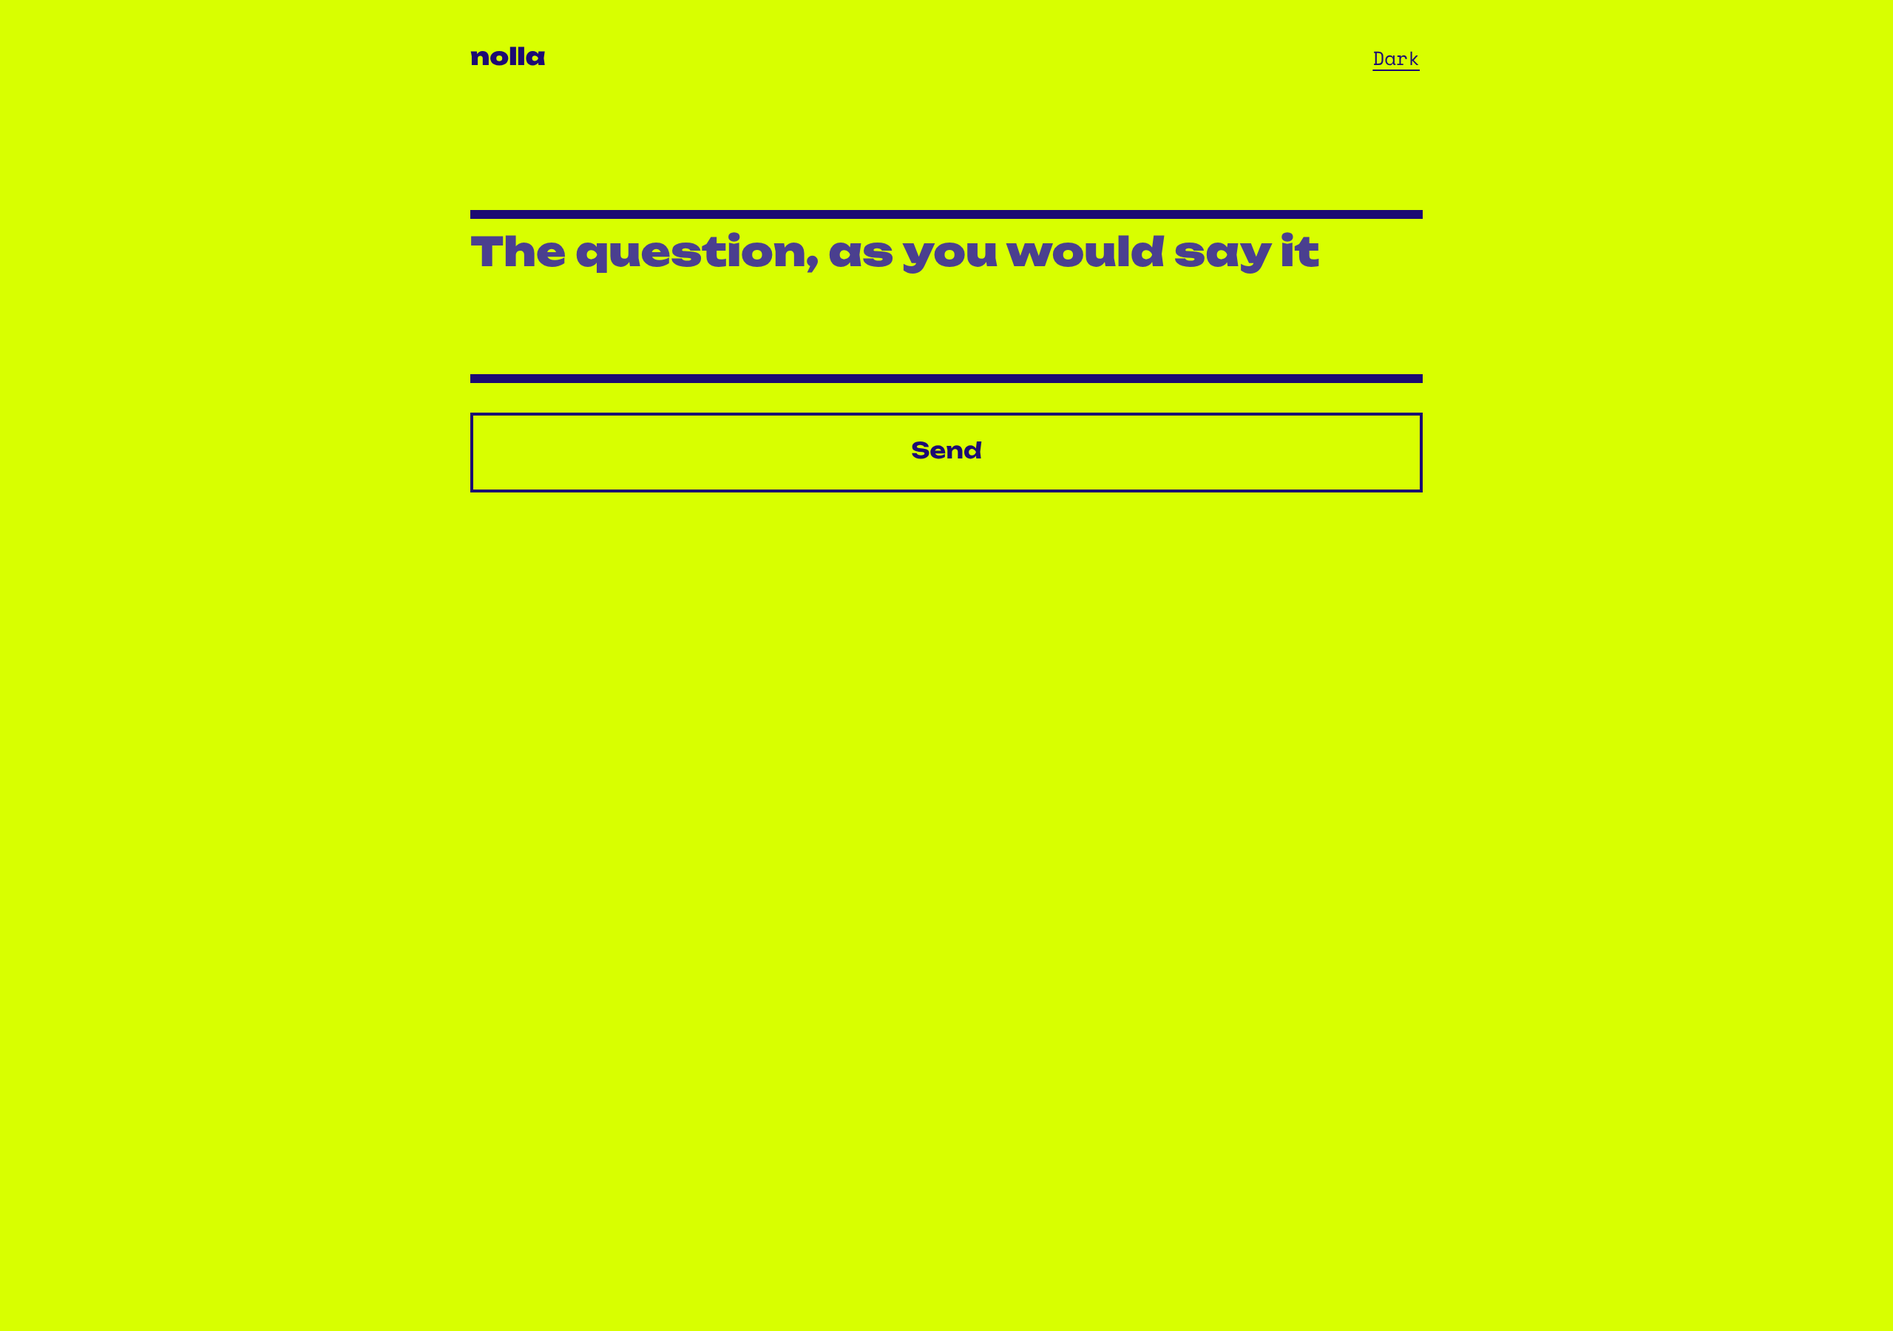
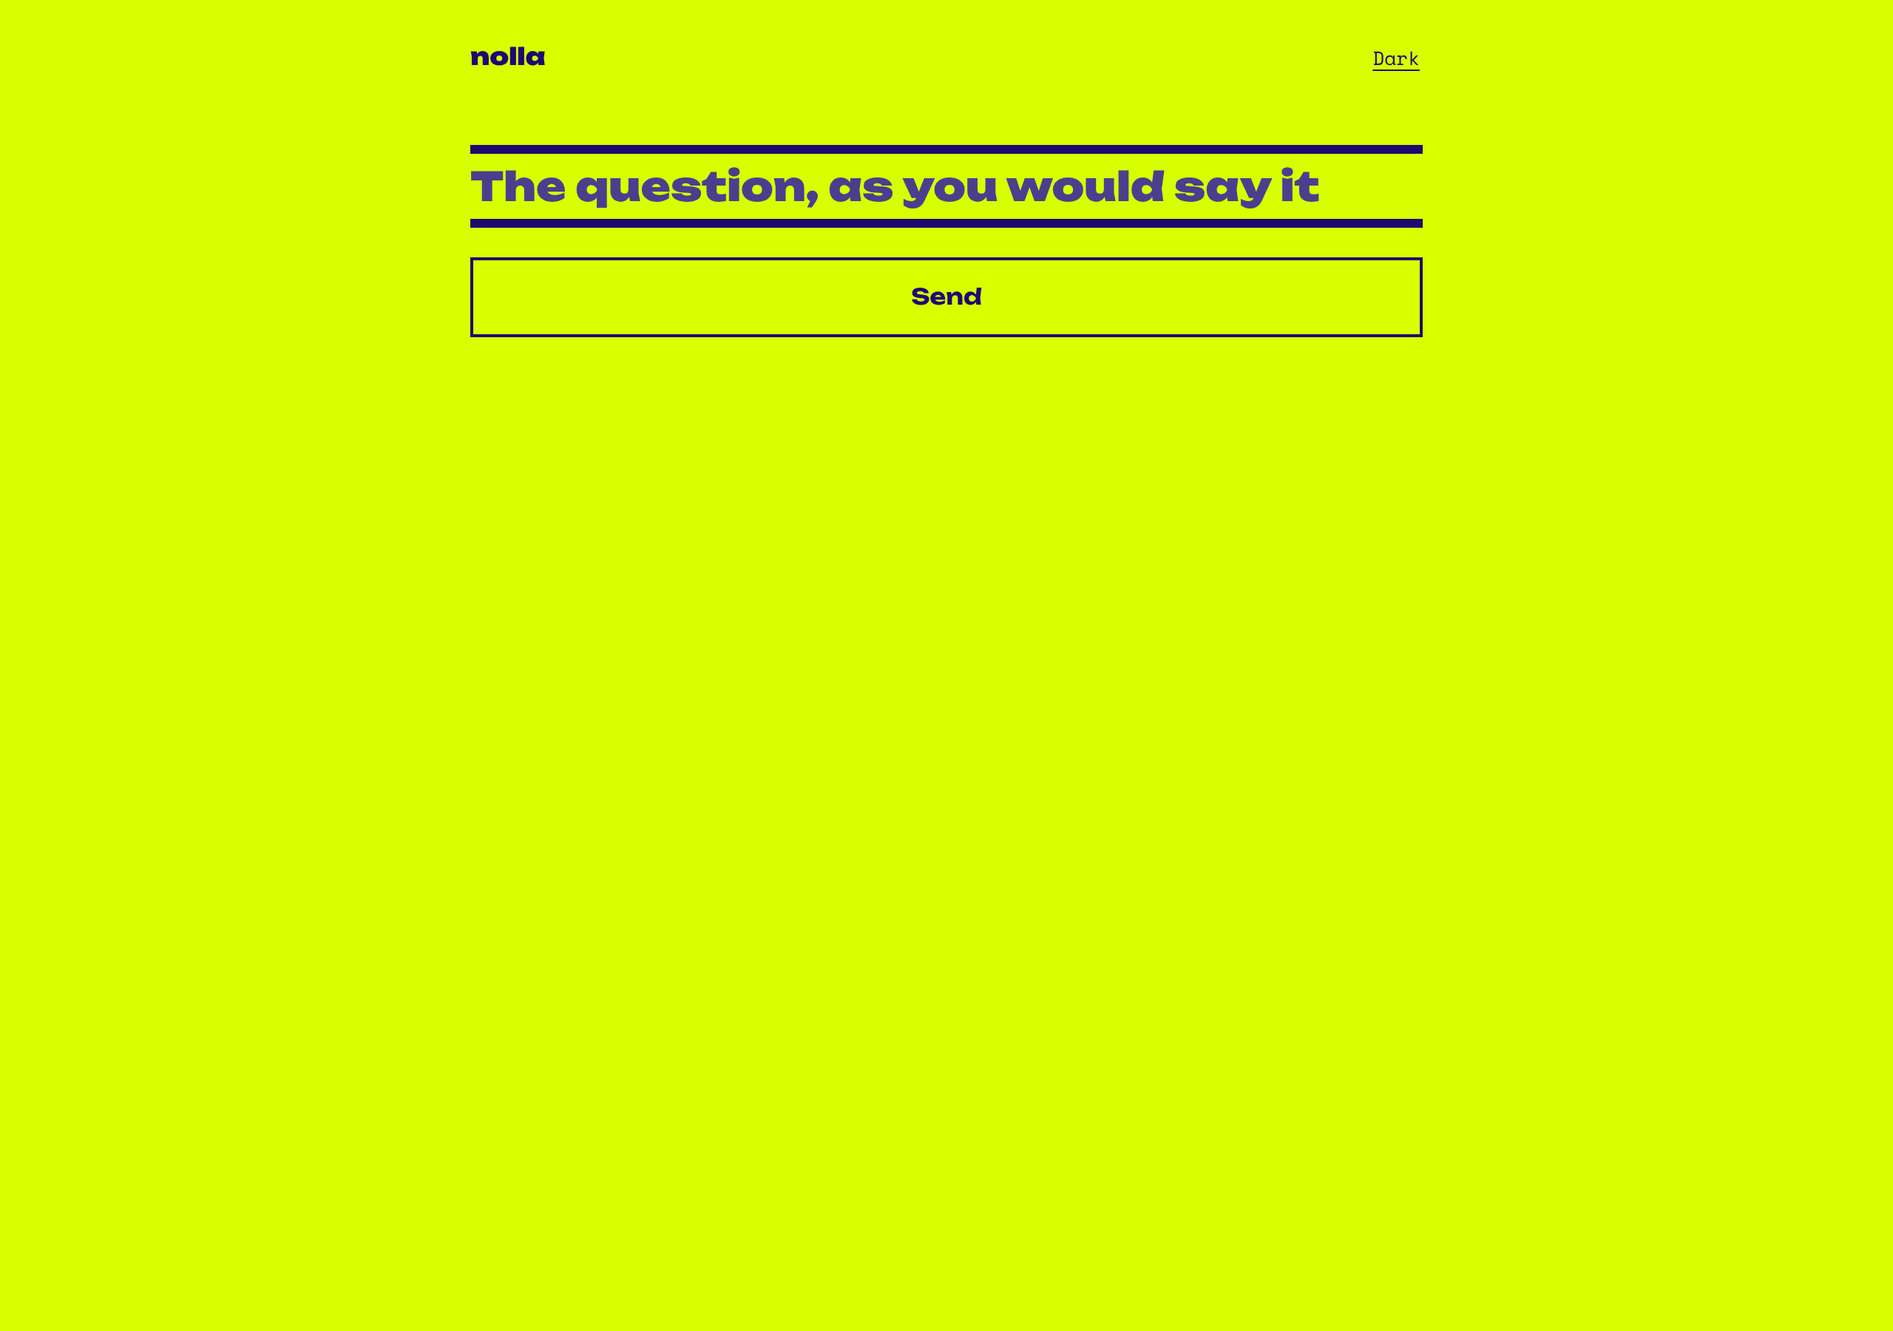
Remove eyebrow labels and repeated descriptions
On /chat, drop the model name above the conversation and the reasoning
label above each reply; the meter shows once, under the latest reply,
with a reasoning switch. The ask field loses its visible label and
grows with the question. The tour loses its label line, the counter
its weekly meter, and the manager decision its restated checks,
refund paragraph, counter limit, and closing line.

Claude-Session: https://claude.ai/code/session_01Hj949VnQJpg21efjNEvzUg

Changed region(s): [[0.25, 0.0933, 0.75, 0.2489], [0.25, 0.28, 0.75, 0.3733]]

diff --git a/src/web/styles.css b/src/web/styles.css
@@ -79,8 +79,10 @@ main { flex: 1; padding: 24px 0 40px; }
 .path li.last { font-weight: 700; border-top: 1px solid var(--ink); border-bottom: 1px solid var(--ink); }
 
 /* The call as typed, in pieces. */
-textarea { display: block; width: 100%; margin-top: 8px; padding: 10px 0; border: 0; border-top: 3px solid var(--ink); border-bottom: 3px solid var(--ink); border-radius: 0; background: transparent; color: var(--ink); font: 900 27px/1.12 var(--display); resize: vertical; }
+textarea { display: block; width: 100%; margin-top: 8px; padding: 10px 0; border: 0; border-top: 3px solid var(--ink); border-bottom: 3px solid var(--ink); border-radius: 0; background: transparent; color: var(--ink); font: 900 27px/1.12 var(--display); resize: none; }
 textarea::placeholder { color: var(--dim); }
+textarea { field-sizing: content; min-height: calc(3lh + 26px); }
+textarea:focus-visible { outline: none; border-top-width: 6px; border-bottom-width: 6px; padding: 7px 0; }
 .pieces-wrap { margin-top: 10px; }
 .pieces { display: flex; flex-wrap: wrap; gap: 4px 0; font-family: var(--mono); font-size: 13px; color: var(--dim); }
 .piece { padding: 0 6px; border-right: 1px solid var(--hair); line-height: 1.5; }
@@ -180,7 +182,7 @@ textarea::placeholder { color: var(--dim); }
 .tour button { display: grid; grid-template-columns: minmax(0, 1fr) minmax(0, 1.4fr); gap: 12px; width: 100%; min-height: 48px; text-align: left; padding: 11px 0; align-items: baseline; }
 .tour .t-name { font-weight: 700; font-size: 17px; }
 .tour .t-what { font-size: 15px; color: var(--dim); }
-.tourbar { margin-bottom: 18px; padding-bottom: 10px; border-bottom: 1px solid var(--hair); font-family: var(--mono); font-size: 13px; color: var(--dim); display: flex; justify-content: space-between; gap: 12px; }
+.tourbar { margin-bottom: 18px; padding-bottom: 10px; border-bottom: 1px solid var(--hair); font-family: var(--mono); font-size: 13px; color: var(--dim); display: flex; justify-content: flex-end; gap: 12px; }
 .tourbar button { font-family: var(--mono); font-size: 13px; text-decoration: underline; text-underline-offset: 3px; }
 
 @media (max-width: 480px) {
@@ -192,27 +194,25 @@ textarea::placeholder { color: var(--dim); }
    question sets in the display face, the reply in the body face, and the
    machine's own numbers in mono under each reply. */
 .chat { display: flex; flex-direction: column; min-height: calc(100vh - 110px); }
-.chat-top { display: flex; justify-content: space-between; align-items: baseline; min-height: 44px; }
-.chat-model { font-family: var(--mono); font-size: 13px; color: var(--dim); overflow-wrap: anywhere; }
 .chat-log { flex: 1; }
 .chat--empty .chat-log { flex: 0; }
 .chat-q { margin-top: 28px; padding-top: 18px; border-top: 3px solid var(--ink); font-family: var(--display); font-weight: 900; font-size: 24px; line-height: 1.14; overflow-wrap: anywhere; white-space: pre-wrap; }
-.chat-q:first-child { margin-top: 8px; }
+.chat-q:first-child { margin-top: 0; }
 .chat-a { margin-top: 14px; }
 .chat-reply p { margin-top: 12px; font-size: 17px; line-height: 1.55; white-space: pre-wrap; overflow-wrap: anywhere; }
 .chat-reply p:first-child { margin-top: 0; }
-.chat-reasoning { margin-bottom: 12px; font-family: var(--mono); font-size: 13px; line-height: 1.55; color: var(--dim); }
-.chat-reasoning summary { min-height: 32px; cursor: pointer; }
-.chat-reasoning p { margin-top: 6px; padding-left: 12px; border-left: 2px solid var(--hair); white-space: pre-wrap; }
-.chat-meter { display: flex; flex-wrap: wrap; justify-content: space-between; gap: 4px 16px; margin-top: 16px; padding-top: 8px; border-top: 1px solid var(--hair); font-family: var(--mono); font-size: 13px; color: var(--dim); font-variant-numeric: tabular-nums; }
+.chat-reasoning { margin-top: 10px; padding-left: 12px; border-left: 2px solid var(--hair); font-family: var(--mono); font-size: 13px; line-height: 1.55; color: var(--dim); white-space: pre-wrap; }
+.chat-toggle { min-height: 32px; font-family: var(--mono); font-size: 13px; color: var(--dim); text-decoration: underline; text-underline-offset: 3px; }
+.chat-toggle[aria-expanded="true"] { color: var(--ink); }
+.chat-meter { display: flex; flex-wrap: wrap; justify-content: space-between; align-items: baseline; gap: 4px 16px; margin-top: 16px; padding-top: 8px; border-top: 1px solid var(--hair); font-family: var(--mono); font-size: 13px; color: var(--dim); font-variant-numeric: tabular-nums; }
 
 /* The composer: pinned under the conversation, one line that grows. */
-.composer { position: sticky; bottom: 0; display: grid; grid-template-columns: minmax(0, 1fr) auto; gap: 12px; align-items: end; margin-top: 24px; padding: 12px 0 16px; border-top: 3px solid var(--ink); background: var(--ground); }
-.composer textarea { margin: 0; padding: 12px 0; border: 0; font: 500 17px/1.45 var(--sans); resize: none; }
-.composer textarea:focus-visible { outline: none; }
+.composer { position: sticky; bottom: 0; display: grid; grid-template-columns: minmax(0, 1fr) auto auto; gap: 12px; align-items: end; margin-top: 24px; padding: 12px 0 16px; border-top: 3px solid var(--ink); background: var(--ground); }
+.composer textarea, .composer textarea:focus-visible { margin: 0; min-height: 0; padding: 12px 0; border: 0; font: 500 17px/1.45 var(--sans); resize: none; outline: none; }
 .composer:focus-within { border-top-width: 6px; padding-top: 9px; }
 .send { min-height: 48px; padding: 0 20px; background: var(--fill); color: var(--fill-text); border: 2px solid var(--fill); font-family: var(--display); font-weight: 700; font-size: 15px; }
 .send:disabled { background: transparent; color: var(--ink); border-color: var(--ink); }
+.chat-clear { align-self: center; }
 
 /* Before the first message the composer is the desk's question field. */
 .chat--empty .composer, .chat--empty .composer:focus-within { position: static; grid-template-columns: minmax(0, 1fr); gap: 20px; margin-top: 12px; padding: 0; border-top: 0; }

diff --git a/src/web/Chat.tsx b/src/web/Chat.tsx
@@ -20,25 +20,31 @@ interface Stats {
 const words = (s: string) => (s.trim() ? s.trim().split(/\s+/).length : 0);
 const n = (x: number) => x.toLocaleString('en-US');
 
-/** The meter under a reply: words while it writes, timing once it is done. */
-function Meter({ turn, writing }: { turn: Turn; writing: boolean }) {
-  if (writing) {
-    return (
-      <div className="chat-meter">
-        <span>writing · {n(words(turn.content))} words</span>
-      </div>
-    );
+/** The meter under the latest reply: words while it writes, then the
+ * model's timing and a switch for its reasoning. */
+function Meter({ turn, writing, showing, onToggle }: { turn: Turn; writing: boolean; showing: boolean; onToggle: () => void }) {
+  let right = '';
+  if (!writing && turn.stats) {
+    const { first, total, completion } = turn.stats;
+    const streaming = (total - first) / 1000;
+    const parts = [`first token ${n(Math.round(first))} ms`];
+    if (completion) parts.push(`${n(completion)} tokens`);
+    parts.push(`${(total / 1000).toFixed(1)} s`);
+    if (completion && streaming >= 0.25) parts.push(`${n(Math.round(completion / streaming))} tokens/s`);
+    right = parts.join(' · ');
   }
-  if (!turn.stats) return null;
-  const { first, total, completion } = turn.stats;
-  const streaming = (total - first) / 1000;
-  const right = [`${(total / 1000).toFixed(1)} s`];
-  if (completion) right.unshift(`${n(completion)} tokens`);
-  if (completion && streaming >= 0.25) right.push(`${n(Math.round(completion / streaming))} tokens/s`);
   return (
     <div className="chat-meter">
-      <span>first token {n(Math.round(first))} ms</span>
-      <span>{right.join(' · ')}</span>
+      {writing ? (
+        <span>writing · {n(words(turn.content))} words</span>
+      ) : turn.reasoning ? (
+        <button type="button" className="chat-toggle" aria-expanded={showing} onClick={onToggle}>
+          reasoning
+        </button>
+      ) : (
+        <span />
+      )}
+      {right && <span>{right}</span>}
     </div>
   );
 }
@@ -50,7 +56,7 @@ export function Chat() {
   const [draft, setDraft] = useState('');
   const [busy, setBusy] = useState(false);
   const [problem, setProblem] = useState<string | null>(null);
-  const [model, setModel] = useState('');
+  const [reasoningOpen, setReasoningOpen] = useState(false);
   const end = useRef<HTMLDivElement>(null);
 
   useEffect(() => {
@@ -63,6 +69,7 @@ export function Chat() {
     const history = [...turns.map((t) => ({ role: t.role, content: t.content })), { role: 'user' as const, content: text }];
     setTurns((t) => [...t, { role: 'user', content: text, reasoning: '' }, { role: 'assistant', content: '', reasoning: '' }]);
     setDraft('');
+    setReasoningOpen(false);
     setBusy(true);
     setProblem(null);
     const t0 = performance.now();
@@ -85,8 +92,7 @@ export function Chat() {
           const data = frame.split('\n').filter((l) => l.startsWith('data:')).map((l) => l.slice(5).trimStart()).join('\n');
           if (!event || !data) continue;
           const body = JSON.parse(data);
-          if (event === 'meta') setModel((body as { model: string }).model);
-          else if (event === 'delta') {
+          if (event === 'delta') {
             if (!first) first = performance.now() - t0;
             const d = body as { c: string; r: string };
             patch((t) => ({ ...t, content: t.content + d.c, reasoning: t.reasoning + d.r }));
@@ -109,15 +115,6 @@ export function Chat() {
 
   return (
     <section className={`chat${empty ? ' chat--empty' : ''}`}>
-      <div className="chat-top">
-        <span className="chat-model">{model}</span>
-        {!empty && (
-          <button className="quiet" onClick={() => { setTurns([]); setProblem(null); }} disabled={busy}>
-            Clear
-          </button>
-        )}
-      </div>
-
       <div className="chat-log">
         {turns.map((t, i) => {
           const last = i === turns.length - 1;
@@ -130,14 +127,9 @@ export function Chat() {
           }
           const writing = busy && last;
           const paragraphs = t.content.split(/\n{2,}/);
+          const showing = last && (reasoningOpen || (writing && !t.content));
           return (
             <div key={i} className="chat-a">
-              {t.reasoning && (
-                <details className="chat-reasoning" open={writing && !t.content}>
-                  <summary>reasoning · {n(words(t.reasoning))} words</summary>
-                  <p>{t.reasoning}</p>
-                </details>
-              )}
               <div className="chat-reply">
                 {paragraphs.map((p, j) => (
                   <p key={j}>
@@ -146,7 +138,8 @@ export function Chat() {
                   </p>
                 ))}
               </div>
-              <Meter turn={t} writing={writing} />
+              {last && <Meter turn={t} writing={writing} showing={showing} onToggle={() => setReasoningOpen((o) => !o)} />}
+              {showing && t.reasoning && <p className="chat-reasoning">{t.reasoning}</p>}
             </div>
           );
         })}
@@ -180,6 +173,11 @@ export function Chat() {
           disabled={busy}
           autoFocus
         />
+        {!empty && (
+          <button type="button" className="quiet chat-clear" onClick={() => { setTurns([]); setProblem(null); }} disabled={busy}>
+            Clear
+          </button>
+        )}
         <button type="submit" className="send" disabled={busy || !draft.trim()}>
           {busy ? 'Writing' : 'Send'}
         </button>

diff --git a/src/web/Refunds.tsx b/src/web/Refunds.tsx
@@ -1,5 +1,5 @@
 import { useState } from 'react';
-import { CHECK_LABELS, COUNTER_MAX, COUNTER_REASONS, COUNTER_WEEK_MAX, MANAGER_QUESTIONS, type Claim, type CostToYou, type CounterReason, type CounterResult, type Want } from '../shared/desk';
+import { CHECK_LABELS, COUNTER_MAX, COUNTER_REASONS, MANAGER_QUESTIONS, type Claim, type CostToYou, type CounterReason, type CounterResult, type Want } from '../shared/desk';
 import { callNumber, fmt, tkn, type Call, type Store } from './store';
 
 export function Counter({ call, store, onPick, onManager, onBack }: { call: Call; store: Store; onPick: (r: CounterReason) => CounterResult | null; onManager: () => void; onBack: () => void }) {
@@ -14,7 +14,7 @@ export function Counter({ call, store, onPick, onManager, onBack }: { call: Call
     <section className="counter">
       <h1 className="headline">Counter</h1>
       <p className="machine">
-        call {callNumber(call.n)} · limit {COUNTER_MAX} tkn · used this week {fmt(store.counterWeek)} of {fmt(COUNTER_WEEK_MAX)}
+        call {callNumber(call.n)} · limit {COUNTER_MAX} tkn
       </p>
       <h2 className="kicker ruled">What was wrong?</h2>
       <ul className="optionlist">
@@ -126,17 +126,12 @@ export function Manager({ call, busy, problem, onDecide, onRedo, onBack }: { cal
     const d = r.decision;
     const title = { approved: 'Approved', partly: 'Partly approved', denied: 'Denied' }[d.outcome];
     const refundLine = d.lines.length ? `${fmt(d.refund)} tkn, ${d.lines.map((l) => l.label.replace(/^about /, '')).join(' and ')}` : 'none';
-    const why = [
-      r.checks.covered ? 'The answer covered the call.' : 'The answer did not cover the call.',
-      d.refund > 0 ? `${r.note} ${fmt(d.refund)} tkn come back.` : d.outcome === 'denied' ? 'Every check passed. A free redo is open on this call.' : '',
-    ]
-      .filter(Boolean)
-      .join(' ');
+    const why = d.refund > 0 ? r.note : '';
     return (
       <section className="manager">
         <h1 className="headline">Manager</h1>
         <p className="machine">
-          call {callNumber(call.n)} · charged {fmt(charged)} tkn · counter limit {COUNTER_MAX} tkn
+          call {callNumber(call.n)} · charged {fmt(charged)} tkn
         </p>
         {answered}
         <h2 className="kicker ruled">Checked</h2>
@@ -164,7 +159,7 @@ export function Manager({ call, busy, problem, onDecide, onRedo, onBack }: { cal
             <dd>A person reviews appeals within seven days</dd>
           </dl>
         </div>
-        <p className="lede-s">{why}</p>
+        {why && <p className="lede-s">{why}</p>}
         <div className="stack">
           {d.redo ? (
             <button className="primary wide" disabled={busy} onClick={onRedo}>
@@ -179,7 +174,6 @@ export function Manager({ call, busy, problem, onDecide, onRedo, onBack }: { cal
             Ask a person to review this
           </button>
         </div>
-        <p className="machine">the receipt stays with the call</p>
       </section>
     );
   }

diff --git a/src/web/App.tsx b/src/web/App.tsx
@@ -11,7 +11,7 @@ import { Counter, Manager } from './Refunds';
 import { Register } from './Register';
 import { Front } from './Front';
 import { Chat } from './Chat';
-import { TOUR, TOUR_BALANCE, tourGenerating, tourState, type TourState } from './tour';
+import { TOUR_BALANCE, tourGenerating, tourState, type TourState } from './tour';
 
 type View =
   | { name: 'front' }
@@ -166,7 +166,6 @@ export function App() {
     setTour(tourState(state));
     setView({ name: 'tour', state });
   };
-  const tourTitle = view.name === 'tour' ? TOUR.find((t) => t.key === view.state)?.name : '';
 
   return (
     <div className="page">
@@ -191,7 +190,6 @@ export function App() {
         {view.name === 'tour' && tour && (
           <>
             <div className="tourbar">
-              <span>tour · {tourTitle}</span>
               <button onClick={() => setView({ name: 'front' })}>Back to the tour</button>
             </div>
             <TourScreen state={view.state} call={tour} setCall={setTour} />

diff --git a/src/web/CallForm.tsx b/src/web/CallForm.tsx
@@ -27,7 +27,7 @@ export function CallForm({ busy, problem, onAsk, preset }: Props) {
           if (ready) onAsk(text.trim(), { slips: chosen.slips, sources: chosen.sources, words: chosen.words, check: chosen.check }, chosen.label);
         }}
       >
-        <label htmlFor="call" className="label">
+        <label htmlFor="call" className="sr-only">
           The call
         </label>
         <textarea id="call" rows={3} value={text} onChange={(e) => setText(e.target.value)} placeholder="The question, as you would say it" disabled={busy} autoFocus />

diff --git a/docs/aar-chat-design-2026-10-28.md b/docs/aar-chat-design-2026-10-28.md
@@ -33,7 +33,18 @@ None from the request. The chat still has no price, balance, or sort, as its com
 ## 5. Consequence: what it cost or risked
 No change to the request or the worker, so a break here is visual. The risk is the three new strings and the placeholder, which need the owner's approval under EDITORIAL.md.
 
+## Second pass: no eyebrows, no repeats
+**Instruction given (actual wording):** "i don't like any eyebrow text ever, nor repetitive descriptions"
+**What changed:**
+- `/chat`: removed the model name line above the conversation and the reasoning label above each reply. The meter now appears once, under the latest reply, and its left side is a `reasoning` switch that shows the model's reasoning below it. Older replies show the question and the answer alone. Clear moved into the composer beside Send.
+- Ask screen: "The call" label above the question field is now read by screen readers only. The field grows with the question in place of cutting it off at three lines, and focus thickens its rules in place of drawing a second frame around them.
+- Tour: removed the "tour · Ask" line above each tour screen; "Back to the tour" stays.
+- Counter: removed "used this week 120 of 1,000" from the line under the heading, the weekly meter the owner rejected on the boards.
+- Manager decision: removed "counter limit 300 tkn", which repeated the counter screen, and the paragraph that restated the checks and the refund line. The model's own note shows when there is a refund. Removed "the receipt stays with the call" under the buttons.
+
+**Left as is, for the owner:** the decision receipt's Found line repeats the checks list above it, and the Register still lists counter refunds for the week. The receipt is the record of the decision, so cutting from it is his call.
+
 ## 6. Change: what happens next
-- Ron reviews the screenshots and the four strings before merge.
+- Ron reviews the screenshots, the new strings, and the receipt question before merge.
 - If `/chat` is going to stay, add a board for it to the design canvas so the next build works from a spec.
 - Keep rendering against a streaming mock before calling chat work done; the earlier blank page bug only showed with a real stream.
